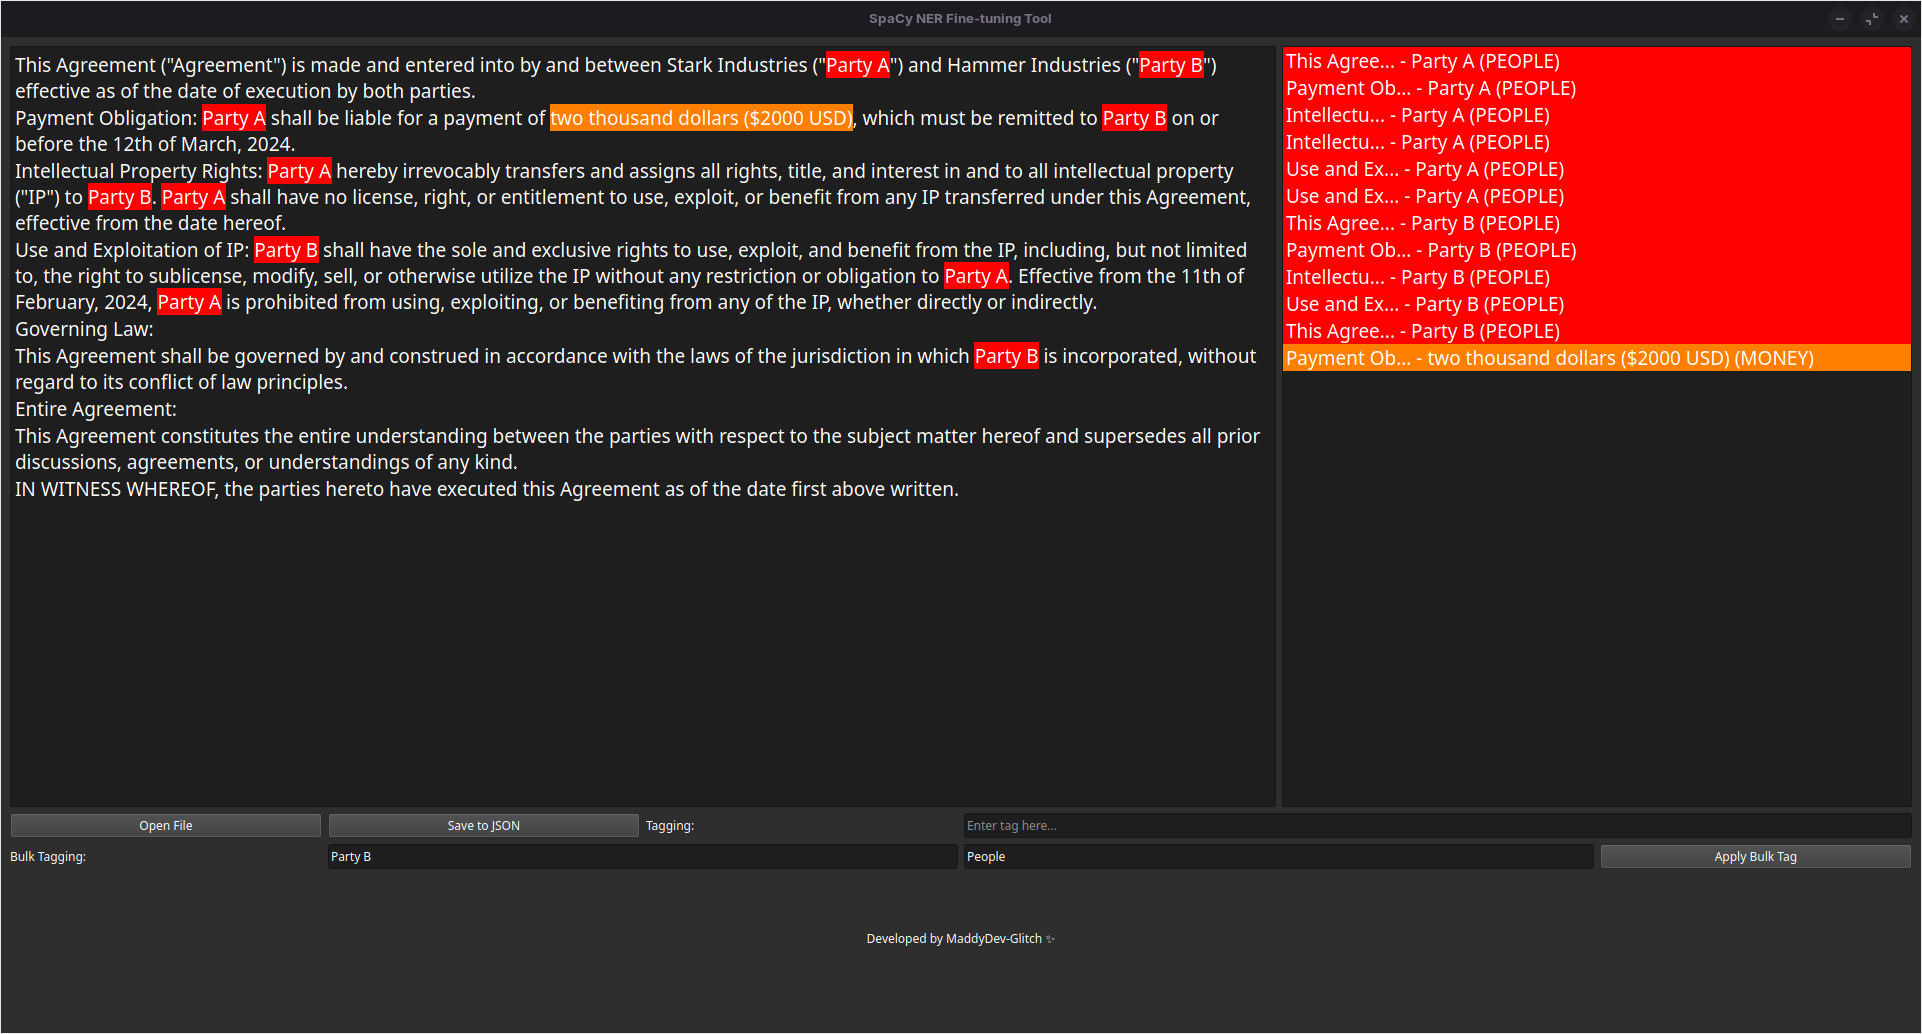
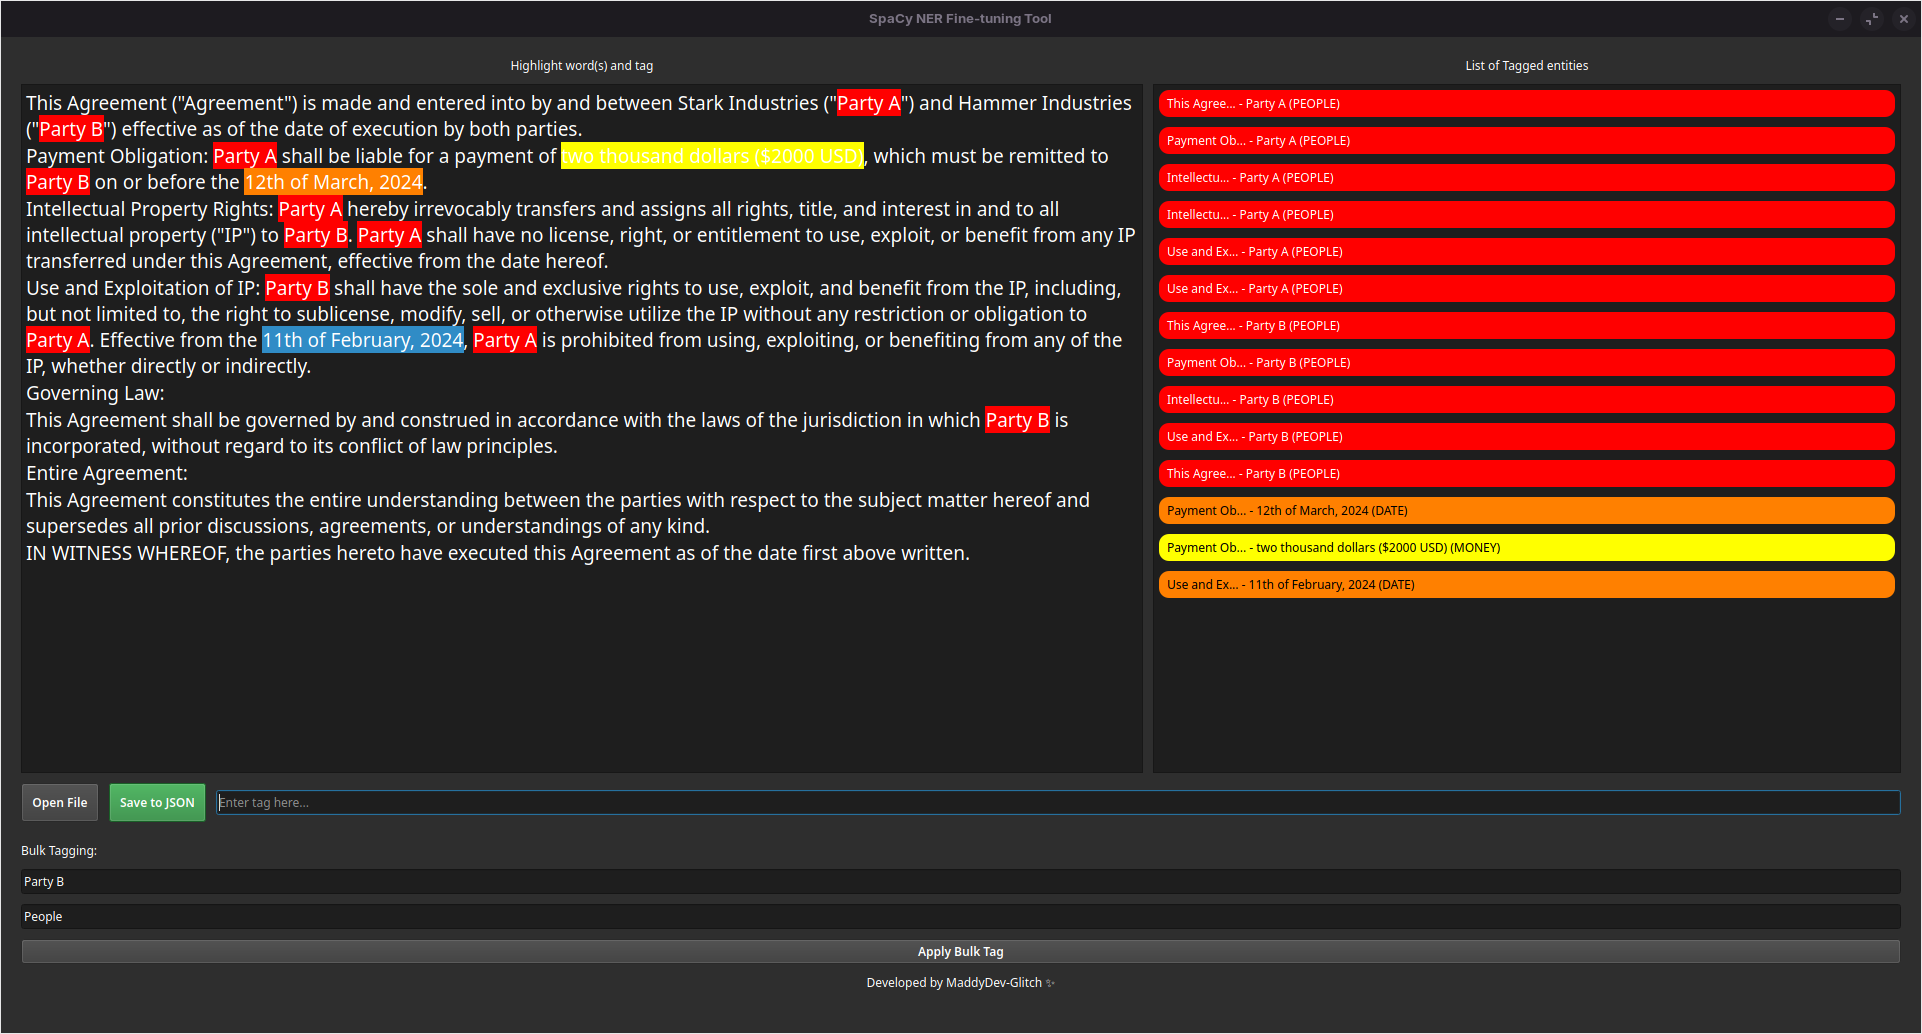
FEAT: updated UI

diff --git a/main.py b/main.py
@@ -11,6 +11,23 @@ from PyQt5.QtCore import Qt
 from PyQt5.QtGui import QFont
 from PyQt5.QtCore import QUrl
 from PyQt5.QtGui import QDesktopServices
+from PyQt5.QtWidgets import QSizePolicy
+
+class CustomListItem(QWidget):
+    def __init__(self, text, color):
+        super().__init__()
+        layout = QHBoxLayout()
+
+        brightness = (color.red() * 299 + color.green() * 587 + color.blue() * 114) / 1000
+        text_color = 'black' if brightness > 128 else 'white'
+
+        label = QLabel(text)
+        label.setStyleSheet(f"background-color: {color.name()}; color: {text_color}; border-radius: 10px; padding: 5px;")
+        layout.addWidget(label)
+        layout.setContentsMargins(5, 5, 5, 5)
+        self.setLayout(layout)
+
+
 
 class NERTagger(QMainWindow):
     def __init__(self):
@@ -24,66 +41,103 @@ class NERTagger(QMainWindow):
 
     def initUI(self):
         self.setWindowTitle('SpaCy NER Fine-tuning Tool')
-        self.setGeometry(100, 100, 800, 600)
+        self.setGeometry(100, 100, 1000, 700)
         self.setStyleSheet("background-color: #2E2E2E; color: white;")
 
         self.central_widget = QWidget()
         self.setCentralWidget(self.central_widget)
 
         self.layout = QGridLayout(self.central_widget)
+        self.layout.setContentsMargins(20, 20, 20, 20)
+        self.layout.setSpacing(10)
         self.font = QFont()
         self.font.setPointSize(14)
+
+        # Create a vertical layout to hold the label and text edit
+        left_v_layout = QVBoxLayout()
+        left_v_layout.setContentsMargins(0, 0, 0, 0)
+        left_v_layout.setSpacing(10)
+
+        self.text_edit_label = QLabel("Highlight word(s) and tag", self)
+        self.text_edit_label.setAlignment(Qt.AlignCenter)
+        self.text_edit_label.setSizePolicy(QSizePolicy.Expanding, QSizePolicy.Fixed)
+        left_v_layout.addWidget(self.text_edit_label)
 
         self.text_edit = QTextEdit(self)
         self.text_edit.setReadOnly(True)
         self.text_edit.setFont(self.font)
         self.text_edit.setStyleSheet("background-color: #1E1E1E; color: white;")
-        self.layout.addWidget(self.text_edit, 0, 0, 6, 4)
+        left_v_layout.addWidget(self.text_edit)
+
+        self.layout.addLayout(left_v_layout, 0, 0, 1, 6)
+
+        # Create a vertical layout to hold the tagged list label and the tagged list
+        right_v_layout = QVBoxLayout()
+        right_v_layout.setContentsMargins(0, 0, 0, 0)
+        right_v_layout.setSpacing(10)
+
+        self.tagged_list_label = QLabel("List of Tagged entities", self)
+        self.tagged_list_label.setAlignment(Qt.AlignCenter)
+        self.tagged_list_label.setSizePolicy(QSizePolicy.Expanding, QSizePolicy.Fixed)
+        right_v_layout.addWidget(self.tagged_list_label)
 
         self.tagged_list = QListWidget(self)
         self.tagged_list.setContextMenuPolicy(Qt.CustomContextMenu)
         self.tagged_list.customContextMenuRequested.connect(self.show_list_context_menu)
         self.tagged_list.setFont(self.font)
         self.tagged_list.setStyleSheet("background-color: #1E1E1E; color: white;")
-        self.layout.addWidget(self.tagged_list, 0, 4, 6, 2)
+        right_v_layout.addWidget(self.tagged_list)
+
+        self.layout.addLayout(right_v_layout, 0, 6, 1, 4)
+
+        # Add buttons and input fields
+        button_layout = QHBoxLayout()
+        button_layout.setSpacing(10)
 
         self.open_button = QPushButton('Open File', self)
         self.open_button.clicked.connect(self.open_file)
-        self.open_button.setStyleSheet("background-color: #3A3A3A; color: white;")
-        self.layout.addWidget(self.open_button, 6, 0, 1, 1)
+        self.open_button.setStyleSheet("background-color: #3A3A3A; color: white;padding:10px;font-weight:500")
+        button_layout.addWidget(self.open_button)
 
         self.save_button = QPushButton('Save to JSON', self)
         self.save_button.clicked.connect(self.save_to_json)
-        self.save_button.setStyleSheet("background-color: #3A3A3A; color: white;")
-        self.layout.addWidget(self.save_button, 6, 1, 1, 1)
-
-        self.tag_label = QLabel("Tagging:", self)
-        self.layout.addWidget(self.tag_label, 6, 2, 1, 1)
+        self.save_button.setStyleSheet("background-color: #238636;font-weight:500; color: white;padding:10px")
+        button_layout.addWidget(self.save_button)
 
         self.tag_input = QLineEdit(self)
         self.tag_input.setPlaceholderText('Enter tag here...')
         self.tag_input.returnPressed.connect(self.tag_selected_text)
         self.tag_input.setStyleSheet("background-color: #1E1E1E; color: white;")
-        self.layout.addWidget(self.tag_input, 6, 3, 1, 3)
+        button_layout.addWidget(self.tag_input)
+
+        self.layout.addLayout(button_layout, 1, 0, 1, 10)
+
+        # Create a vertical layout for bulk tagging
+        bulk_v_layout = QVBoxLayout()
+        bulk_v_layout.setContentsMargins(0, 10, 0, 0)
 
         self.bulk_label = QLabel("Bulk Tagging:", self)
-        self.layout.addWidget(self.bulk_label, 7, 0, 1, 1)
+        bulk_v_layout.addWidget(self.bulk_label)
 
         self.bulk_input = QLineEdit(self)
         self.bulk_input.setPlaceholderText('Enter text to tag...')
         self.bulk_input.setStyleSheet("background-color: #1E1E1E; color: white;")
-        self.layout.addWidget(self.bulk_input, 7, 1, 1, 2)
+        bulk_v_layout.addWidget(self.bulk_input)
 
         self.bulk_tag_input = QLineEdit(self)
         self.bulk_tag_input.setPlaceholderText('Enter tag for bulk text...')
         self.bulk_tag_input.setStyleSheet("background-color: #1E1E1E; color: white;")
-        self.layout.addWidget(self.bulk_tag_input, 7, 3, 1, 2)
+        bulk_v_layout.addWidget(self.bulk_tag_input)
 
         self.bulk_tag_button = QPushButton('Apply Bulk Tag', self)
         self.bulk_tag_button.clicked.connect(self.apply_bulk_tag)
-        self.bulk_tag_button.setStyleSheet("background-color: #3A3A3A; color: white;")
-        self.layout.addWidget(self.bulk_tag_button, 7, 5, 1, 1)
+        self.bulk_tag_button.setStyleSheet("background-color: #3A3A3A; color: white;font-weight:500")
+        bulk_v_layout.addWidget(self.bulk_tag_button)
 
+        # Add the vertical layout to the main layout
+        self.layout.addLayout(bulk_v_layout, 2, 0, 1, 10)
+
+        # Add undo and redo actions
         self.undo_action = QAction('Undo', self)
         self.undo_action.setShortcut(QKeySequence('Ctrl+Z'))
         self.undo_action.triggered.connect(self.undo)
@@ -97,13 +151,15 @@ class NERTagger(QMainWindow):
 
         self.text_edit.cursorPositionChanged.connect(self.focus_tag_input)
 
+        # Add status bar
         self.status_bar = QStatusBar()
         self.setStatusBar(self.status_bar)
 
+        # Add credits
         self.credits = QLabel('<a href="https://github.com/MaddyDev-Glitch" style="color: white; text-decoration: none;">Developed by MaddyDev-Glitch ✨</a>', self)
         self.credits.setOpenExternalLinks(True)
         self.credits.setAlignment(Qt.AlignBottom | Qt.AlignCenter)
-        self.layout.addWidget(self.credits, 8, 0, 1, 6)
+        self.layout.addWidget(self.credits, 3, 0, 1, 10)
 
     def open_file(self):
         options = QFileDialog.Options()
@@ -216,9 +272,11 @@ class NERTagger(QMainWindow):
         for item in self.tagged_words:
             sentence_preview = (item['sentence'][:10] + '...') if len(item['sentence']) > 10 else item['sentence']
             display_text = f"{sentence_preview} - {item['annotation']['word']} ({item['annotation']['tag_name']})"
-            list_item = QListWidgetItem(display_text)
-            list_item.setBackground(self.get_tag_color(item['annotation']['tag_name']))
+            list_item = QListWidgetItem()
+            list_item_widget = CustomListItem(display_text, self.get_tag_color(item['annotation']['tag_name']))
+            list_item.setSizeHint(list_item_widget.sizeHint())
             self.tagged_list.addItem(list_item)
+            self.tagged_list.setItemWidget(list_item, list_item_widget)
             list_item.setData(Qt.UserRole, item)
 
     def delete_tagged_item(self, item):
